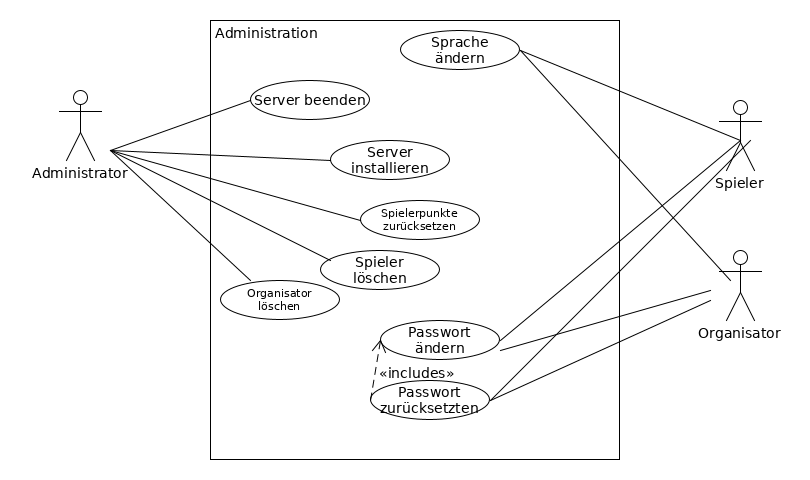
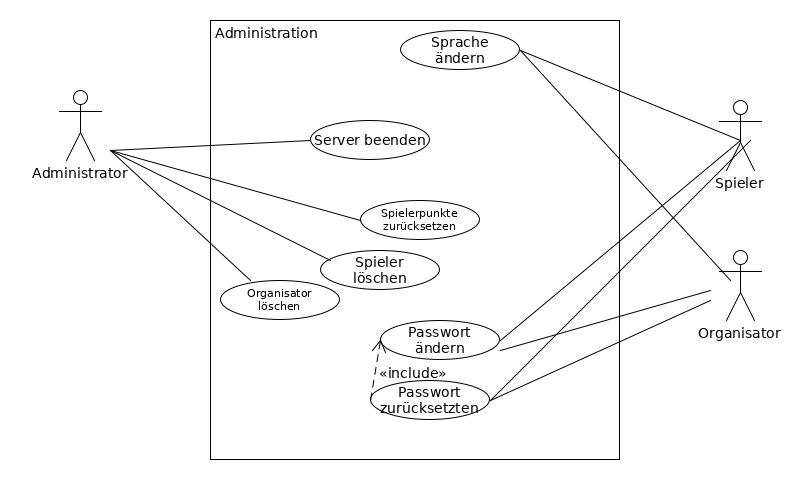
removed anwendungsfall

Changed region(s): [[0.1543, 0.1562, 0.5556, 0.375], [0.2469, 0.2188, 0.2778, 0.25]]

diff --git a/pflichtenheft/pflichtenheft.tex b/pflichtenheft/pflichtenheft.tex
@@ -802,20 +802,6 @@ Das Domanenwissen liegt oft bei den Mitarbeitern bzw. Personen, die sich täglic
             \item \Gls{Organisator} oder \Gls{Spieler} bestätigt seine Auswahl
         \end{itemize}
     \end{itemize}
-    \subsection{Server installieren}
-    \begin{itemize}
-        \item Teilnehmende Akteure: \Gls{Administrator} 
-        \item Eingangsbedingungen: Computer mit MySQL und Tomcat installiert
-        \item Ausgangsaktionen: Spiel-Server starten
-        \item Ereignisfluss: 
-            \begin{itemize}
-                \item \Gls{Administrator} kopiert die War Datei in den Tomcat webapps Ordner
-                \item \Gls{Administrator} fügt den Pfad zur CFG Datei in die `tomcat/conf/Catalina/<host>` Datei ein
-                \item \Gls{Administrator} konfiguriert die CFG Datei aus der Dokumentation mit den relevanten Werten
-                \item \Gls{Administrator} führt \texttt{tomcat/bin/startup.sh}(Linux \& Mac) bzw. \texttt{tomcat\textbackslash bin\textbackslash startup.bat}(Windows) aus
-            \end{itemize}
-    \end{itemize}
-
     \subsection{Server beenden}
     \begin{itemize}
         \item Teilnehmende Akteure: \Gls{Administrator}
